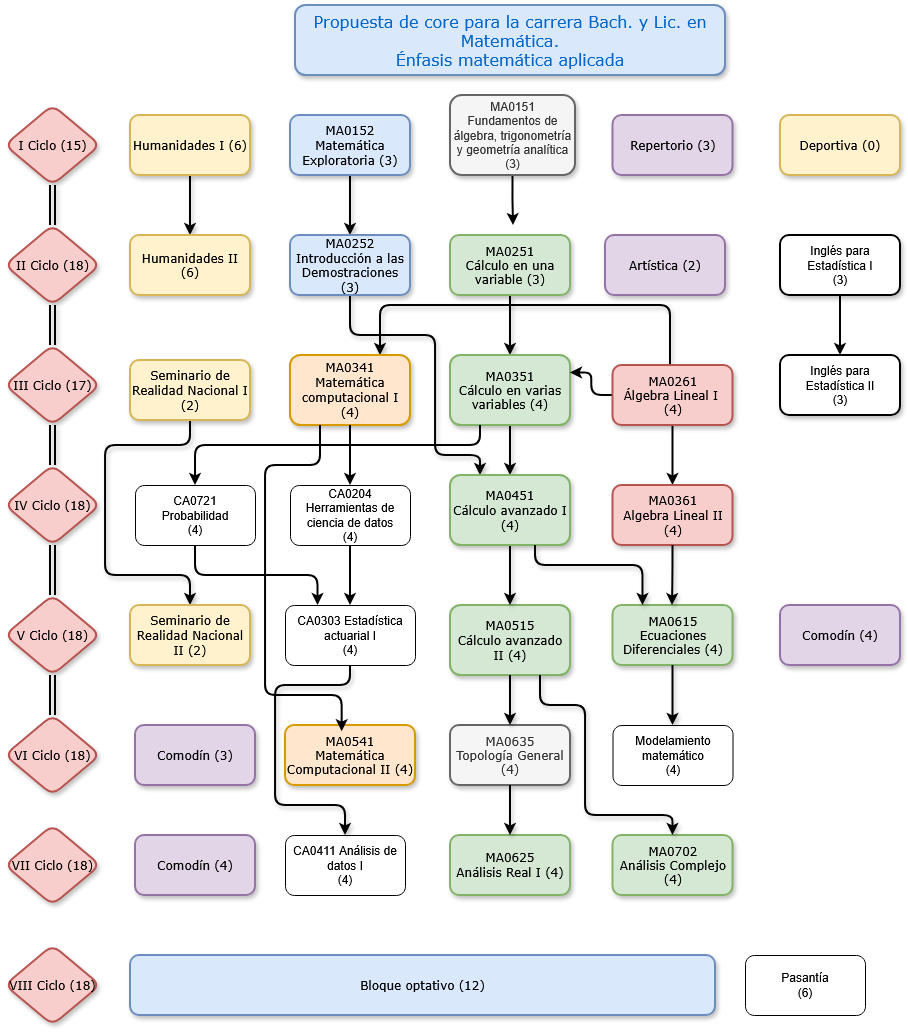
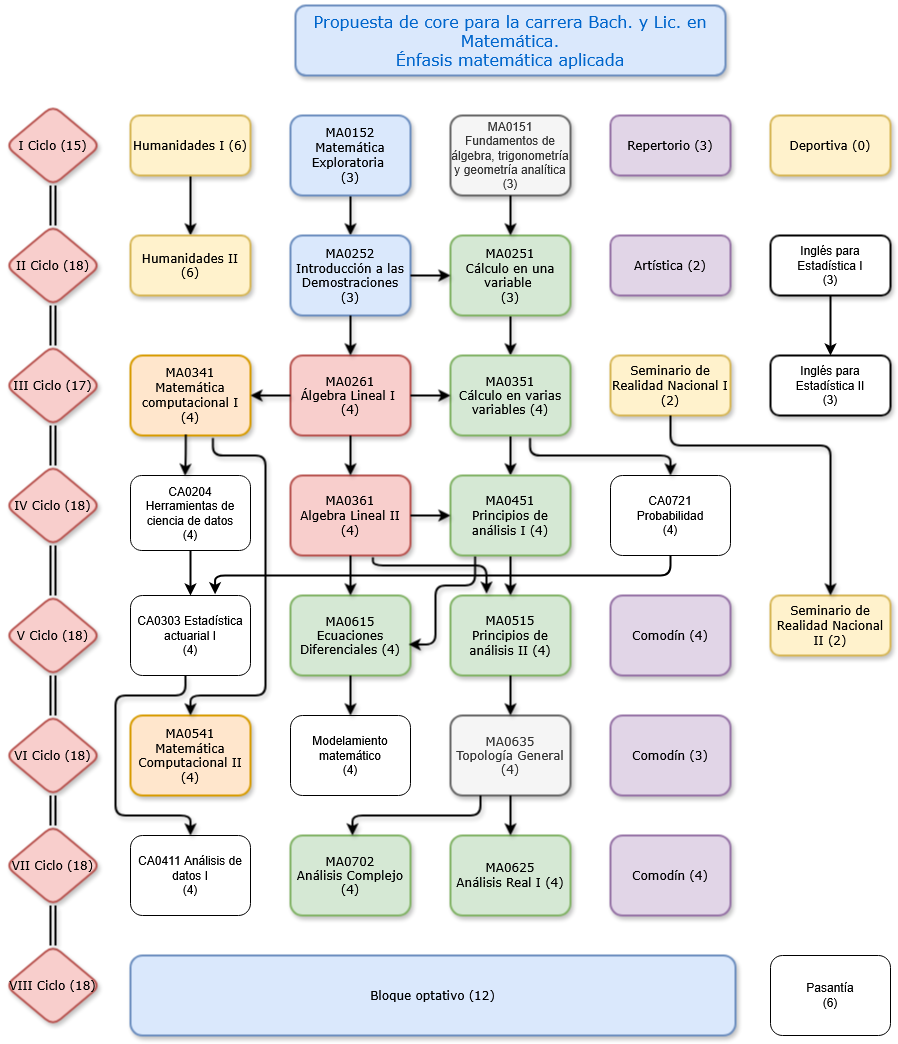
Ajuste en la imagen de pura

Changed region(s): [[0.0, 0.0, 0.9978, 1.0]]

diff --git a/index.html b/index.html
@@ -348,37 +348,37 @@
           },
           HOTSPOT_POR_TITULO: {
             "MA-01XX Fundamentos de álgebra, trigonometría y geometría analítica": {
-              left: 49, top: 11.5, w: 14.5, h: 8,
+              left: 50, top: 11, w: 14, h: 8,
             },
-            "MA-01XX Matemática Exploratoria": { left: 32, top: 11.5, w: 14.5, h: 8 },
+            "MA-01XX Matemática Exploratoria": { left: 32, top: 11, w: 14, h: 8 },
             "MA-02XX Introducción al Cálculo en una variable": {
-              left: 49, top: 22.5, w: 14.5, h: 8,
+              left: 50, top: 22.5, w: 14, h: 8,
             },
             "MA-02XX Introducción a las Demostraciones": {
-              left: 32, top: 22.5, w: 14.5, h: 8,
+              left: 32, top: 22.5, w: 14, h: 8,
             },
-            "MA-0261 Algebra Lineal I": { left: 66.5, top: 34, w: 14.5, h: 8 },
-            "MA-0341 Matemática Computacional I": { left: 32, top: 34, w: 14.5, h: 8 },
+            "MA-0261 Algebra Lineal I": { left: 32, top: 34, w: 14, h: 8 },
+            "MA-0341 Matemática Computacional I": { left: 68, top: 34, w: 14, h: 8 },
             "MA-0351 Introducción al Cálculo en varias variables": {
-              left: 49, top: 34, w: 14.5, h: 8,
+              left: 50, top: 34, w: 14, h: 8,
             },
-            "MA-0361 Algebra Lineal II": { left: 66.5, top: 45, w: 14.5, h: 8 },
-            "MA-0541 Matemática Computacional II": { left: 32, top: 68.5, w: 14.5, h: 8 },
+            "MA-0361 Algebra Lineal II": { left: 32, top: 45, w: 14, h: 8 },
             "MA-04XX Principios de análisis en una variable": {
-              left: 49, top: 45, w: 14.5, h: 8,
+              left: 50, top: 45, w: 14, h: 8,
             },
-            "MA-0461 Teoría de Números": { left: 32, top: 45, w: 14.5, h: 8 },
-            "MA-0472 Introducción a la Geometría Diferencial": { left: 85, top: 45, w: 14.5, h: 8 },
-            "MA-05XX Algebra Abstracta I": { left: 66.5, top: 57, w: 14.5, h: 8 },
             "MA-04XX Principios de análisis en varias variables": {
-              left: 49, top: 57, w: 14.5, h: 8,
+              left: 50, top: 56, w: 14, h: 8,
             },
-            "MA-0615 Ecuaciones Diferenciales": { left: 32, top: 57, w: 14.5, h: 8 },
-            "MA-0625 Análisis Real I": { left: 66.5, top: 82, w: 14.5, h: 8 },
-            "MA-06XX Algebra Abstracta II": { left: 66.5, top: 68.5, w: 14.5, h: 8 },
-            "MA-0702 Análisis Complejo": { left: 49, top: 82, w: 14.5, h: 8 },
-            "MA-0635 Introducción a la Topología": { left: 49, top: 68.5, w: 14.5, h: 8 },
-            "MA-0725 Análisis Real II": { left: 32, top: 82, w: 14.5, h: 8 },
+            "MA-0461 Teoría de Números": { left: 85.5, top: 45, w: 14, h: 8 },
+            "MA-0472 Introducción a la Geometría Diferencial": { left: 68, top: 45, w: 14, h: 8 },
+            "MA-05XX Algebra Abstracta I": { left: 32, top: 56, w: 14, h: 8 },
+            "MA-0615 Ecuaciones Diferenciales": { left: 68, top: 56, w: 14, h: 8 },
+            "MA-06XX Algebra Abstracta II": { left: 32, top: 67.5, w: 14, h: 8 },
+            "MA-0702 Análisis Complejo": { left: 50, top: 78.5, w: 14, h: 8 },
+            "MA-0541 Matemática Computacional II": { left: 68, top: 67.5, w: 14, h: 8 },
+            "MA-0635 Introducción a la Topología": { left: 50, top: 67.5, w: 14, h: 8 },
+            "MA-0625 Análisis Real I": { left: 68, top: 78.5, w: 14, h: 8 },
+            "MA-0725 Análisis Real II": { left: 32, top: 80, w: 14, h: 8 },
           },
         },
         aplicada: {
@@ -446,39 +446,39 @@
           },
           HOTSPOT_POR_TITULO: {
             "MA-01XX Fundamentos de álgebra, trigonometría y geometría analítica": {
-              left: 49, top: 11.5, w: 14.5, h: 8,
+              left: 50, top: 11, w: 14, h: 8,
             },
-            "MA-01XX Matemática Exploratoria": { left: 32, top: 11.5, w: 14.5, h: 8 },
+            "MA-01XX Matemática Exploratoria": { left: 32, top: 11, w: 14, h: 8 },
             "MA-02XX Introducción al Cálculo en una variable": {
-              left: 49, top: 22.5, w: 14.5, h: 8,
+              left: 50, top: 22.5, w: 14, h: 8,
             },
             "MA-02XX Introducción a las Demostraciones": {
-              left: 32, top: 22.5, w: 14.5, h: 8,
+              left: 32, top: 22.5, w: 14, h: 8,
             },
-            "MA-0261 Algebra Lineal I": { left: 66.5, top: 34, w: 14.5, h: 8 },
-            "MA-0341 Matemática Computacional I": { left: 32, top: 34, w: 14.5, h: 8 },
+            "MA-0261 Algebra Lineal I": { left: 32, top: 34, w: 14, h: 8 },
+            "MA-0341 Matemática Computacional I": { left: 14, top: 34, w: 14, h: 8 },
             "MA-0351 Introducción al Cálculo en varias variables": {
-              left: 49, top: 34, w: 14.5, h: 8,
+              left: 50, top: 34, w: 14, h: 8,
             },
-            "MA-0361 Algebra Lineal II": { left: 66.5, top: 45, w: 14.5, h: 8 },
-            "MA-0541 Matemática Computacional II": { left: 32, top: 68.5, w: 14.5, h: 8 },
+            "MA-0361 Algebra Lineal II": { left: 32, top: 45.5, w: 14, h: 8 },
+            "MA-0541 Matemática Computacional II": { left: 14, top: 68.5, w: 14, h: 8 },
             "MA-04XX Principios de análisis en una variable": {
-              left: 49, top: 45, w: 14.5, h: 8,
+              left: 50, top: 45.5, w: 14, h: 8,
             },
             "MA-04XX Principios de análisis en varias variables": {
-              left: 49, top: 57, w: 14.5, h: 8,
+              left: 50, top: 57, w: 14, h: 8,
             },
-            "MA-0615 Ecuaciones Diferenciales": { left: 66.5, top: 57, w: 14.5, h: 8  },
-            "MA-0625 Análisis Real I": { left: 49, top: 80, w: 14.5, h: 8 },
-            "MA-0702 Análisis Complejo": { left: 66.5, top: 80, w: 14.5, h: 8 },
-            "MA-0635 Introducción a la Topología": { left: 49, top: 68.5, w: 14.5, h: 8 },
-            // "MA-0725 Análisis Real II": { left: 32, top: 82, w: 14.5, h: 8 },
-            "CA-0721 Probabilidad": { left: 15, top: 45, w: 14.5, h: 8, },
+            "MA-0615 Ecuaciones Diferenciales": { left: 32, top: 57, w: 14, h: 8  },
+            "MA-0625 Análisis Real I": { left: 50, top: 80, w: 14, h: 8 },
+            "MA-0702 Análisis Complejo": { left: 32, top: 80, w: 14, h: 8 },
+            "MA-0635 Introducción a la Topología": { left: 50, top: 68.5, w: 14, h: 8 },
+            // "MA-0725 Análisis Real II": { left: 32, top: 82, w: 14, h: 8 },
+            "CA-0721 Probabilidad": { left: 68, top: 45.5, w: 14, h: 8, },
             "CA-0204 Herramientas de ciencia de datos I": {
-              left: 32, top: 45, w: 14.5, h: 8,
+              left: 14, top: 45.5, w: 14, h: 8,
             },
-            "CA-0303 Estadística actuarial I": {left: 32, top: 57, w: 14.5, h: 8 },
-            "CA-0411 Análisis de Datos I": { left: 32, top: 80, w: 14.5, h: 8 },
+            "CA-0303 Estadística actuarial I": {left: 14, top: 57, w: 14, h: 8 },
+            "CA-0411 Análisis de Datos I": { left: 14, top: 80, w: 14, h: 8 },
           },
         },
       };

diff --git a/Cursos/MA0151-fundamentos-cuerpo.tex b/Cursos/MA0151-fundamentos-cuerpo.tex
@@ -9,8 +9,8 @@
 %%%%%%%%%%%%% MA-XXXX Matemática para el Cálculo %%%%%%%%%%%%%
 %%%%%%%%%%%%%%%%%%%%%%%%%%%%%%%%%%%%%%%%%%%%%%%%%%%%%%%%%%%%%%
 \newpage 
-\paragraph*{MA-01XX Fundamentos de álgebra, trigonometría y geometría analítica}
-\addcontentsline{toc}{subsection}{MA-01XX Fundamentos de álgebra, trigonometría y geometría analítica}
+\subsubsection*{MA-0151 Fundamentos de álgebra, trigonometría y geometría analítica}
+\addcontentsline{toc}{subsection}{MA-0151 Fundamentos de álgebra, trigonometría y geometría analítica}
 
 \begin{refsection}
 \begin{table}[H]

diff --git a/Cursos/MA0152-matematica-exploratoria-cuerpo.tex b/Cursos/MA0152-matematica-exploratoria-cuerpo.tex
@@ -2,8 +2,8 @@
 %%%%%%%%%%%%% MA-XXXX Matemática Exploratoria %%%%%%%%%%%%%
 %%%%%%%%%%%%%%%%%%%%%%%%%%%%%%%%%%%%%%%%%%%%%%%%%%%%%%%%%%%%%%
 \newpage
-\paragraph*{MA-01XX Matemática Exploratoria}
-\addcontentsline{toc}{subsection}{MA-01XX Matemática Exploratoria}
+\subsubsection*{MA-0152 Matemática Exploratoria}
+\addcontentsline{toc}{subsection}{MA-0152 Matemática Exploratoria}
 \begin{refsection}
 \begin{table}[H]
 \centering{
